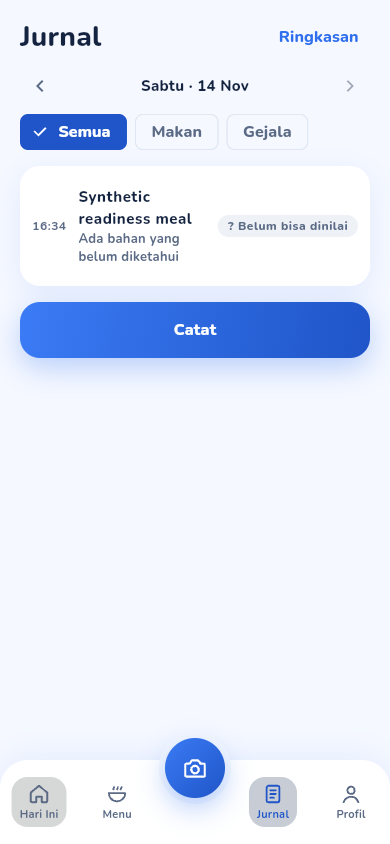
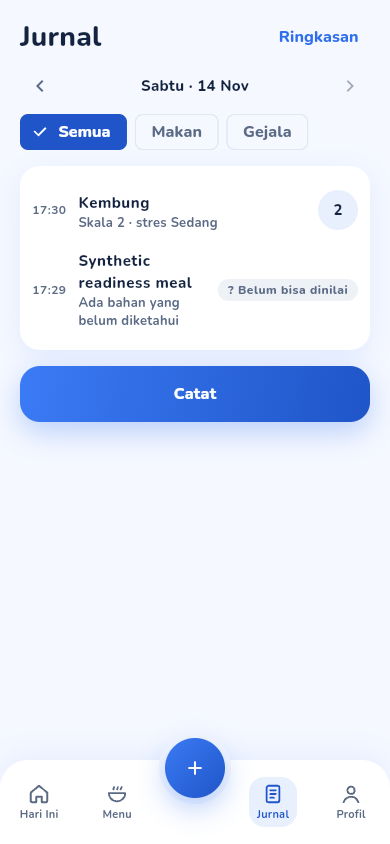
docs(ux): document revised flows and real backend smoke evidence

diff --git a/docs/usability-polish.md b/docs/usability-polish.md
@@ -1,0 +1,33 @@
+# Perbaikan alur pemakaian — 14 November 2026
+
+Branch: `feat/usability-polish`. Perubahan ini menindaklanjuti review UX dan persetujuan pengguna untuk menyederhanakan alur. Identitas visual dan aturan penilaian makanan tetap mengacu pada handoff serta backend.
+
+## Perilaku baru
+
+- Tombol tengah **+** membuka pilihan **Cek makanan**, **Catat makan**, **Catat gejala**, dan **Tulis cerita** jika AI aktif. Tombol Catat di Jurnal dan ajakan mencatat di Hari Ini menggunakan pilihan yang sama. Aksi **Sudah dimakan** pada menu tetap langsung membuka form berisi menu tersebut.
+- **Catat makan** langsung membuka form manual. Menutup form kembali ke layar asal, dengan perlindungan perubahan yang belum disimpan. **Cek makanan** membuka kamera saat AI aktif dan form bahan manual saat AI dimatikan.
+- Setelah simpan makan, **Ada keluhan** membuka form gejala dengan ID makanan yang baru disimpan sebagai pilihan awal. Pilihan ini bisa diganti atau dilepas. Hasil commit beserta ID tetap sama saat penyimpanan diulang; nama makanan tidak dipakai untuk menebak hubungan.
+- Menu berstatus **Tidak sesuai** mengutamakan **Lihat pilihan sesuai**. Daftar alternatif menampilkan status sesuai, dengan tombol untuk membuka semua status lagi. **Tetap catat** meminta konfirmasi bahwa makanan sudah dimakan. Tidak ada klaim bahwa makanan pasti aman atau penyebab keluhan.
+- Alergi serta budget, tingkat pedas, dan preferensi bisa diedit dari kartu Profil. Form mempertahankan isian saat server gagal. Menghapus alergi memerlukan konfirmasi. Versi profil tetap diteruskan agar perubahan lama tidak menimpa perubahan yang lebih baru.
+- Gambar detail diperkecil; kedua aksi menu mendapat ruang seimbang; subtitle generik berulang dihilangkan; isi tab diberi jarak dari tombol tengah. Waktu catatan dan jadwal tampil 24 jam.
+- Checklist bahan hanya tersedia untuk **Masak**. Menu **Beli** menyediakan **Salin cara pesan**.
+
+## Coba di Chrome
+
+Jalankan backend dan Flutter sesuai [panduan integrasi](frontend-backend-integration.md). Untuk proses Flutter yang masih berjalan, lakukan hot restart (`R`).
+
+1. Tekan **+ → Catat makan**, isi makanan, tinjau waktu, lalu konfirmasi sudah dimakan.
+2. Tekan **Ada keluhan**, pilih gejala, cek makanan terhubung, dan simpan. Refresh: kedua catatan harus tetap ada di Jurnal.
+3. Ulangi dengan dua makanan bernama sama: hubungan harus menggunakan makanan yang dipilih, bukan nama.
+4. Dari **Profil → Alergi**, ubah daftar dipisahkan koma lalu simpan. Coba juga **Budget & preferensi** dan refresh.
+5. Buka menu yang tidak sesuai: coba alternatif; kembali dan coba batal pada konfirmasi **Tetap catat**.
+6. Buka menu Beli untuk menyalin cara pesan dan menu Masak untuk checklist. Coba ukuran layar 390 × 844.
+7. Matikan AI dari Profil: Catat makan dan Cek makanan tetap berfungsi manual, tanpa mengunggah foto/cerita.
+
+Pengingat otomatis 2–3 jam, push notification, dan penjadwalan di sistem operasi belum ditambahkan. Penghubung gejala tersedia langsung setelah simpan serta dari Jurnal; hubungan tersebut bukan kesimpulan sebab-akibat. Pengujian perangkat Android/iOS fisik masih diperlukan.
+
+## Validasi
+
+`flutter analyze` bersih, 59 tes Flutter lulus, dan build web release berhasil. Smoke Chrome release berhasil menyimpan makanan, meneruskan ID makanan yang tepat ke gejala, dan memulihkan catatan setelah refresh.
+
+Regresi Flutter mencakup alur demo, retry commit, AI nonaktif, kembali dari manual ke asal, makanan bernama sama, konfirmasi menu tidak sesuai, penyimpanan alergi, dan mempertahankan budget saat server gagal. `scripts/browser_smoke.py` menguji build web release pada 390 × 844 melalui backend nyata dengan akun anonim baru, kemudian membersihkan akun uji tersebut. Bukti eksekusi ada di `docs/evidence/browser-smoke.json`.

diff --git a/docs/frontend-backend-integration.md b/docs/frontend-backend-integration.md
@@ -1,5 +1,7 @@
 # Integrasi FE–BE dan pengujian AIBS
 
+Pembaruan alur terbaru: [pencatatan, makanan–gejala, dan edit profil](usability-polish.md).
+
 Status integrasi awal 14 November 2026. Pembaruan audit PRD ada di [kesiapan demo](hackathon-readiness.md); angka tes dan status deployment di bawah merupakan snapshot historis. Implementasi fitur sudah masuk `main` melalui PR #31–#33; pemeriksaan Flutter/web/APK masuk melalui PR #35. Target hosting beralih ke **Vercel Hobby** setelah verifikasi kartu Render gagal. Branch `feat/vercel-deployment` memuat adaptasi backend dan Flutter Web. Desain dipertahankan; deployment publik belum dinyatakan berhasil. Ikuti [panduan Vercel](vercel-deployment.md).
 
 ## Jalankan lokal

diff --git a/frontend/docs/design/SCREENS.md b/frontend/docs/design/SCREENS.md
@@ -1,3 +1,5 @@
+> Pembaruan UX yang disetujui 14 November 2026: navigasi pencatatan memakai tombol + dan pilihan bersama; detail perilaku serta pengujian ada di [usability-polish](../../../docs/usability-polish.md). Untuk area yang berubah, catatan ini menggantikan alur kamera lama di bawah.
+
 # AIBS screens
 
 The reference frame is a 390 × 844 phone. Every screen ID below matches an artboard on the hi-fi canvas (e.g. `H1 · Hari Ini`). Numbers are logical px from the prototype. Build with normal Flutter layout (padding, Column, Stack), not absolute coordinates. Content scrolls; top bars, bottom actions, and the tab bar stay pinned.
